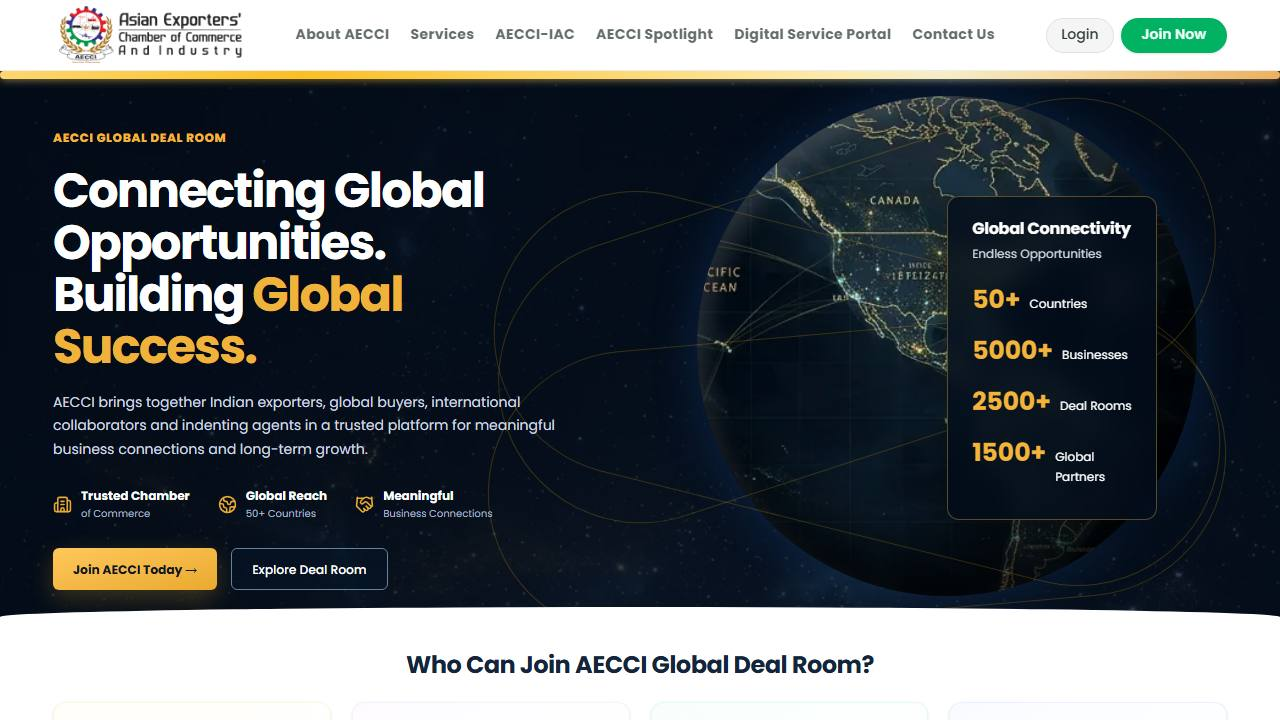
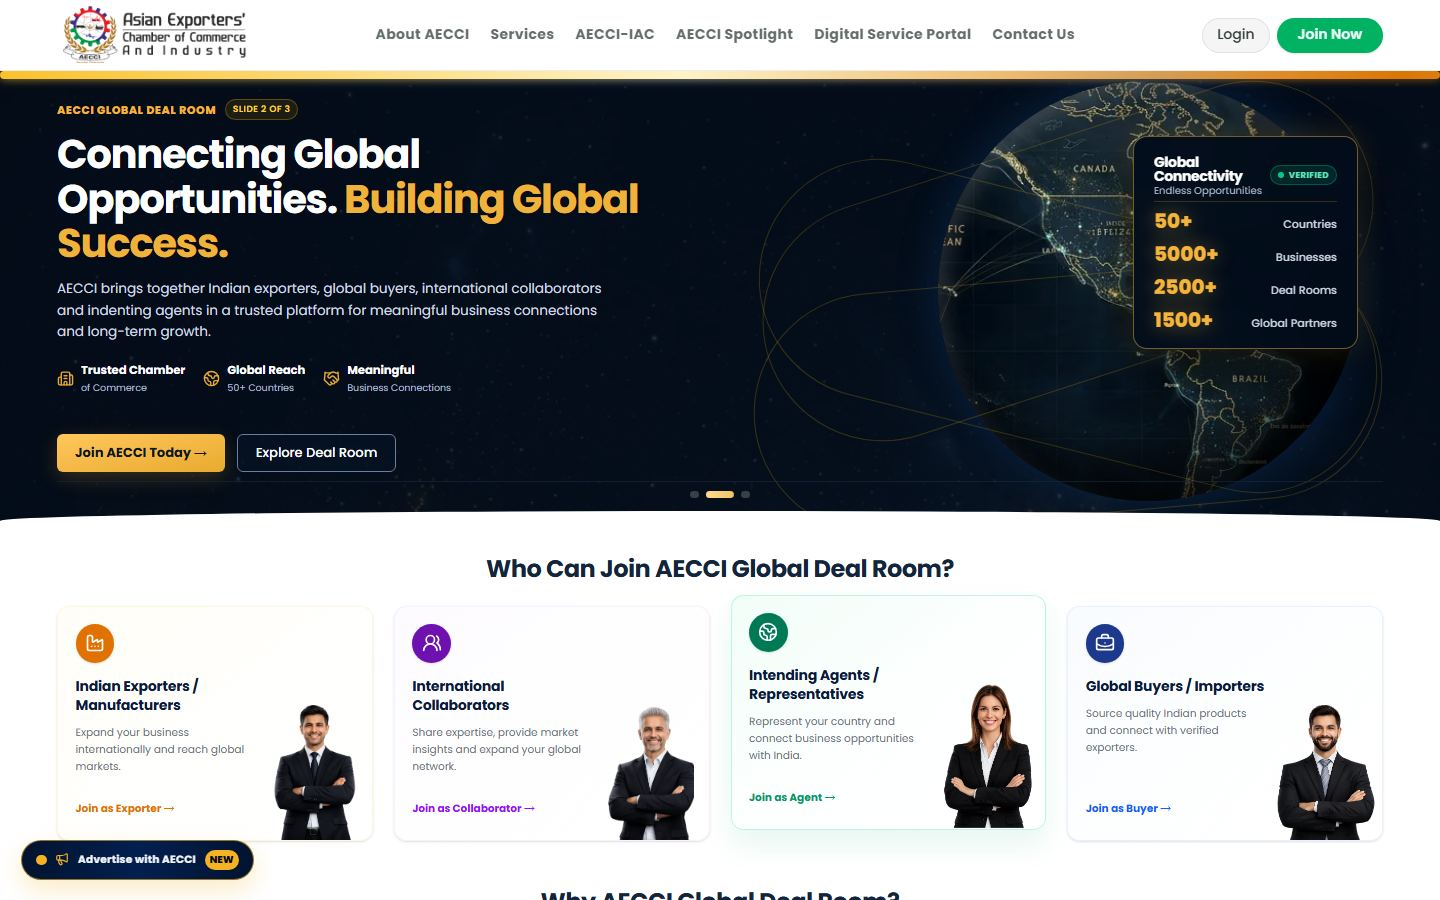
fix

diff --git a/components/Projects.tsx b/components/Projects.tsx
@@ -40,6 +40,15 @@ const projectsData: ProjectItem[] = [
     features: ['Area Agent Network', 'Membership & Flash Deals', 'Leads & Earnings Hub', 'Wallet & Payouts']
   },
   {
+    title: 'EGC Workforce – Attendance & Auth Core',
+    type: 'saas',
+    description: 'Workforce management portal with hardware-verified biometrics, WebAuthn, geo-fenced attendance, and AES-256 device tracking for EGC India operations.',
+    tags: ['SaaS', 'Workforce', 'WebAuthn', 'Geo-Fence'],
+    liveUrl: 'https://workforce.egcindia.in/auth/login',
+    image: "/projects/websites/egc-workforce.jpg",
+    features: ['WebAuthn & Biometrics', 'Geo-Fenced Attendance', 'AES-256 Device Tracking', 'Secure Staff Auth']
+  },
+  {
     title: 'Clawbot – AI Lead Management System',
     type: 'saas',
     description: 'An intelligent full-stack AI lead management platform featuring automated sales pipelines, role-based controls, and detailed performance dashboards.',
@@ -65,6 +74,15 @@ const projectsData: ProjectItem[] = [
     liveUrl: 'https://workspace.rootsatelier.in/login',
     image: "/projects/websites/roots-os.jpg",
     features: ['Secure Workspace Login', 'Atelier Operations Hub', 'Team Access Control', 'Studio Workflow Portal']
+  },
+  {
+    title: 'Westmere – Lead Intelligence',
+    type: 'saas',
+    description: 'Lead intelligence admin panel for Google Places discovery, website crawl for emails/phones, and Cloudinary exports — same ops shell as production admin panels.',
+    tags: ['SaaS', 'Lead Intelligence', 'Data Enrichment', 'Scraping'],
+    liveUrl: 'https://datascrapper-web-cp9thj-5a5ac5-217-216-85-80.sslip.io/login',
+    image: "/projects/websites/westmere.jpg",
+    features: ['Google Places Discovery', 'Email & Phone Crawl', 'Cloudinary Exports', 'Secure Admin Auth']
   },
   // Professional Projects
   {
@@ -138,6 +156,43 @@ const projectsData: ProjectItem[] = [
     liveUrl: 'https://pos-frontend-rudu.onrender.com/',
     image: "/projects/websites/apexpos.jpg",
     features: ['Lightning-fast Billing Grid', 'Real-time Stock Tracking', 'Rich Revenue Analytics', 'Multi-Terminal Syncing']
+  },
+  {
+    title: 'Zunivo – Spontaneous Plans Social',
+    type: 'mobile',
+    description: 'Social hangout app to see who’s free, go live with friends, share invite links, and chat in hangout inboxes — plus a staff console for people, reports, and audit.',
+    tags: ['Social', 'React Native', 'Hangouts', 'Staff Console'],
+    liveUrl: '#',
+    images: [
+      "/projects/zunivo/zunivo_1.png",
+      "/projects/zunivo/zunivo_2.png",
+      "/projects/zunivo/zunivo_3.png",
+      "/projects/zunivo/zunivo_4.png",
+      "/projects/zunivo/zunivo_5.png",
+      "/projects/zunivo/zunivo_6.png",
+      "/projects/zunivo/zunivo_7.png",
+      "/projects/zunivo/zunivo_8.png",
+    ],
+    objectFit: 'contain',
+    features: ['Who’s Free & Go Live', 'Friends, Invites & Inbox', 'Hangout Chat Lifecycle', 'Staff Reports & People Desk']
+  },
+  {
+    title: 'Orbit Duo – Sync Dodge Game',
+    type: 'mobile',
+    description: 'Neon dual-orb sync game with solo and 2-player dodge modes, worlds map, skin locker, ranks, cloud save, and tethered duo gameplay.',
+    tags: ['Mobile Game', 'React Native', 'Duo Multiplayer', 'Cloud Save'],
+    liveUrl: '#',
+    images: [
+      "/projects/orbit/orbit_1.jpg",
+      "/projects/orbit/orbit_2.jpg",
+      "/projects/orbit/orbit_4.jpg",
+      "/projects/orbit/orbit_5.jpg",
+      "/projects/orbit/orbit_6.jpg",
+      "/projects/orbit/orbit_7.jpg",
+      "/projects/orbit/orbit_8.jpg",
+    ],
+    objectFit: 'contain',
+    features: ['Solo Sync & Duo Touch Modes', 'Worlds Map & Level Stars', 'Skin Locker & Ranks', 'Cloud Save Profile']
   },
   {
     title: 'Mirror Mind – AI Cognitive Companion',
@@ -431,14 +486,23 @@ const projectsData: ProjectItem[] = [
     features: ['Diamond Collection Catalog', 'Occasion-Based Shopping', 'Studio Consultation Booking', 'Certified Jewellery Story']
   },
   {
-    title: 'AECCI – Asian Exporters Chamber Portal',
+    title: 'AECCI – Global Trade Platform',
     type: 'professional',
-    isLandingPage: true,
-    description: 'Premium trade portal for the Asian Exporters\' Chamber of Commerce and Industry covering membership, export services, and global commerce programs.',
-    tags: ['Trade Portal', 'Corporate Web', 'React.js', 'Export'],
+    description: 'Chamber-backed B2B trade portal connecting verified Indian exporters with global buyers through curated deal rooms, partner-country networks, and post-meeting support.',
+    tags: ['Trade Portal', 'B2B Platform', 'React.js', 'Export'],
     liveUrl: 'https://www.aecci.org.in/',
     image: "/projects/websites/aecci.jpg",
-    features: ['Export Membership Hub', 'Trade Program Showcase', 'Chamber Corporate Portal', 'Global Commerce Presence']
+    features: ['Global Deal Rooms', 'Exporter–Buyer Matching', '55+ Partner Countries', 'Chamber-Verified Profiles']
+  },
+  {
+    title: 'Socio5 – Performance Marketing Studio',
+    type: 'professional',
+    isLandingPage: true,
+    description: 'Performance marketing studio site for ads, SEO, UGC, social, influencer campaigns, and website development — with published plans, client proof, and WhatsApp enquiry flows.',
+    tags: ['Agency', 'Performance Marketing', 'Next.js', 'Lead Gen'],
+    liveUrl: 'https://www.socio5marketing.in/',
+    image: "/projects/websites/socio5.jpg",
+    features: ['Ads, SEO & Social Suites', 'Published Pricing Plans', 'Client Proof & Reviews', 'WhatsApp Enquiry Flow']
   },
   {
     title: 'Nisha Dryfruits & Spices',

diff --git a/components/MobileApps.tsx b/components/MobileApps.tsx
@@ -20,6 +20,51 @@ interface MobileProject {
 
 const mobileProjects: MobileProject[] = [
   {
+    title: 'Zunivo – Spontaneous Plans Social',
+    platform: 'Friends & Hangouts Mobile App',
+    description: 'See who’s free, go live with coffee/gaming/walk plans, invite friends, and chat in hangout inboxes — backed by a staff console for people, reports, and audit.',
+    tags: ['Social', 'React Native', 'Hangouts', 'Staff Console'],
+    features: [
+      'Who’s Free home & Go Live status',
+      'Friends, invite links & username add',
+      'Hangout inbox chats & profile safety',
+      'Staff desk: people, reports, audit'
+    ],
+    images: [
+      "/projects/zunivo/zunivo_1.png",
+      "/projects/zunivo/zunivo_2.png",
+      "/projects/zunivo/zunivo_3.png",
+      "/projects/zunivo/zunivo_4.png",
+      "/projects/zunivo/zunivo_5.png",
+      "/projects/zunivo/zunivo_6.png",
+      "/projects/zunivo/zunivo_7.png",
+      "/projects/zunivo/zunivo_8.png",
+    ],
+    accentColor: "from-violet-500 to-purple-600"
+  },
+  {
+    title: 'Orbit Duo – Sync Dodge Game',
+    platform: 'Neon Dual-Orb Mobile Game',
+    description: 'Stay-connected sync dodge game with solo and split-touch duo modes, worlds map, skin locker, ranks, cloud save, and tethered P1/P2 gameplay.',
+    tags: ['Mobile Game', 'React Native', 'Duo Multiplayer', 'Cloud Save'],
+    features: [
+      'Solo Sync & Duo Touch 2P Modes',
+      'Worlds Map with Level Stars & Speed Curves',
+      'Skin Locker, Ranks & Cloud Save Profile',
+      'Tether Sync Gameplay with Lane Dodges'
+    ],
+    images: [
+      "/projects/orbit/orbit_1.jpg",
+      "/projects/orbit/orbit_2.jpg",
+      "/projects/orbit/orbit_4.jpg",
+      "/projects/orbit/orbit_5.jpg",
+      "/projects/orbit/orbit_6.jpg",
+      "/projects/orbit/orbit_7.jpg",
+      "/projects/orbit/orbit_8.jpg",
+    ],
+    accentColor: "from-cyan-400 to-fuchsia-500"
+  },
+  {
     title: 'Mirror Mind – AI Cognitive Companion',
     platform: 'AI Self-Reflection Mobile App',
     description: 'An AI-powered cognitive companion for self-reflection. Features persona advisors, behavioral pattern diagnostics, decision confidence maps, and a synced MirrorMind Double chat experience.',
